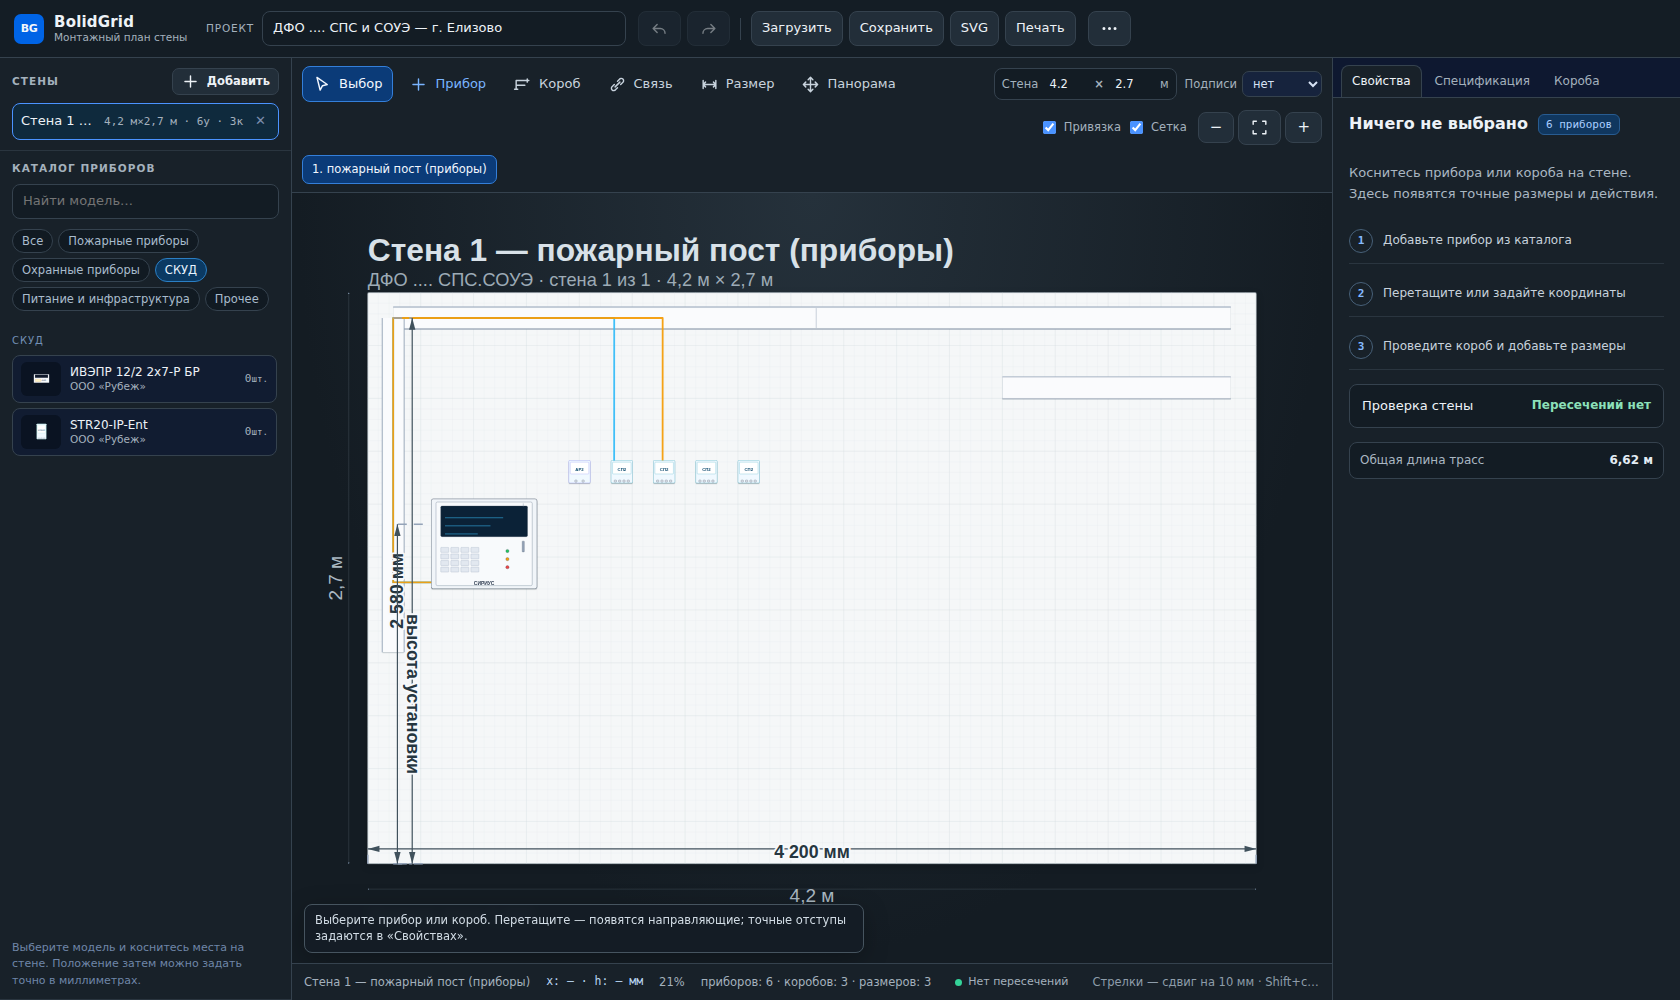
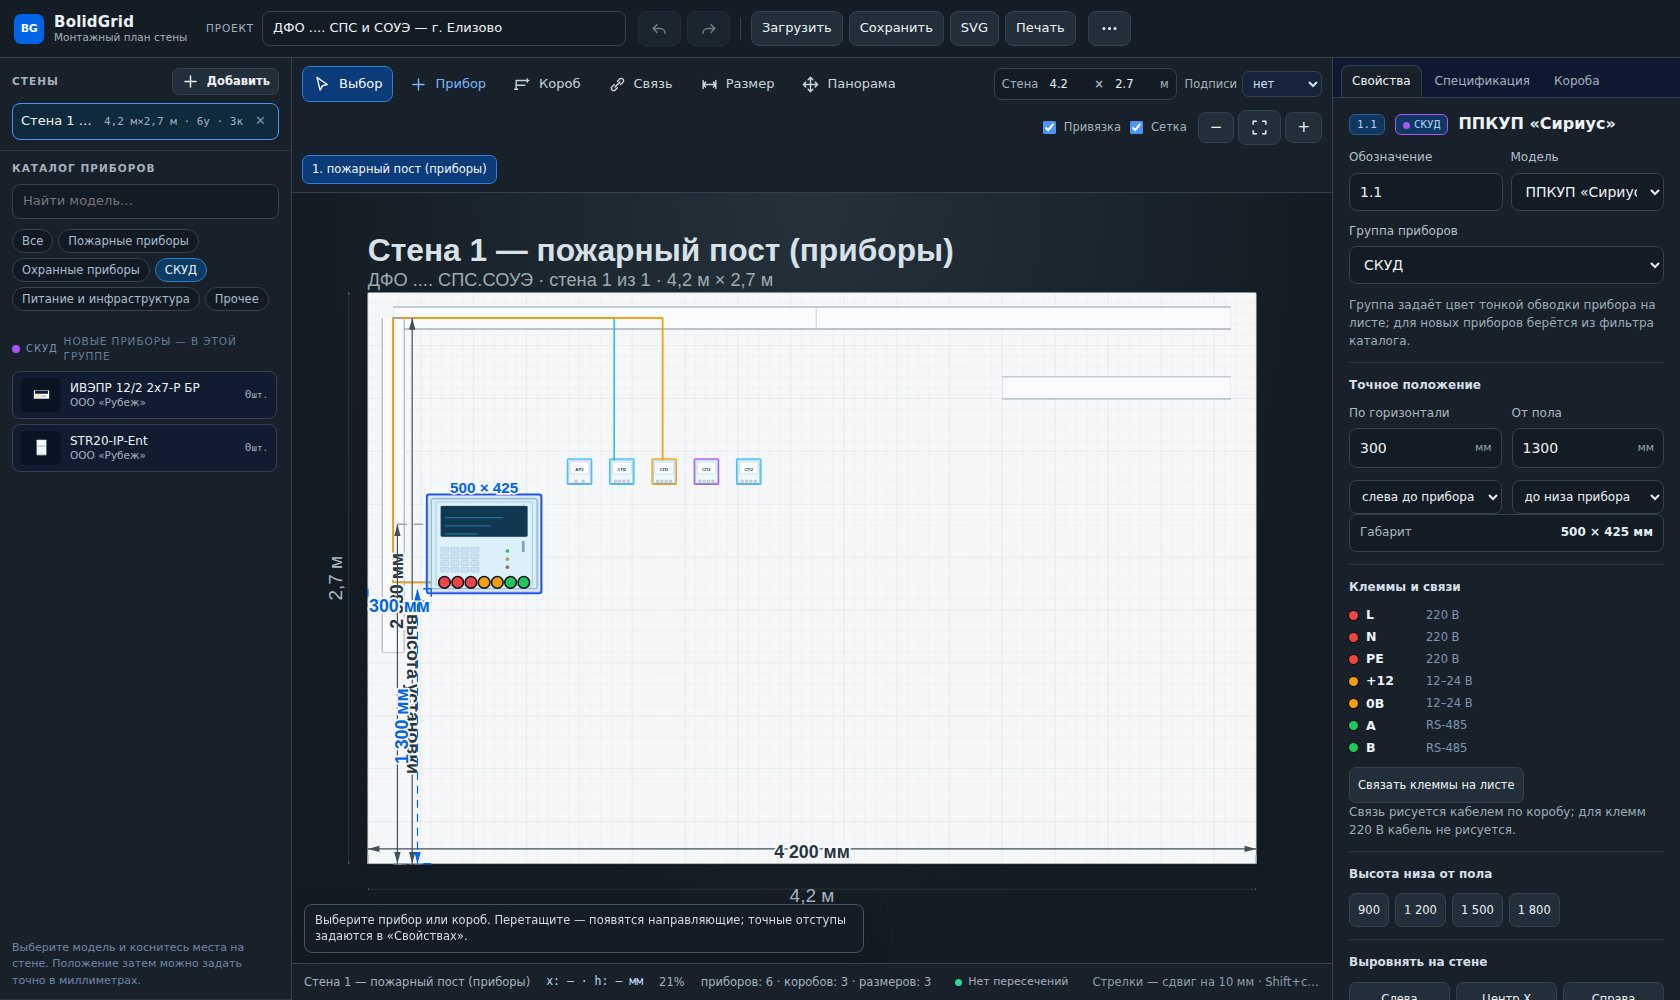
Выбор группы приборов и цветная тонкая обводка (1.7.0)
- у каждого прибора появилась группа: пожарные / охранные / СКУД / питание / прочее;
  выбирается в свойствах прибора и хранится в проекте (devices[].system)
- группа задаёт тонкую обводку вокруг прибора на листе: пожарные — красная, охранные — голубая,
  СКУД — фиолетовая, питание — оранжевая, прочее — серая
- фильтр группы в каталоге задаёт группу новым приборам (store.placeSystem)
- в каталоге заголовки групп с цветными точками; в свойствах — селектор группы и цветной бейдж
- версия 1.7.0 (versionCode 8), APK пересобран; smoke 97/97, QA 167/167, mobile 123/123
- документация (README/USAGE/DATA-MODEL/QA) и скриншоты обновлены

diff --git a/js/panels.js b/js/panels.js
@@ -2,7 +2,7 @@
  * panels.js — панели интерфейса: каталог устройств, стены, точные свойства,
  * спецификация оборудования и ведомость коробов.
  */
-import { MODELS, getModel, KIND_LABELS, KIND_ORDER, CHANNEL_KINDS, CHANNEL_COLORS, modelThumb, terminalsForModel, TERMINAL_KIND_LABELS, TERMINAL_KIND_COLORS, CABLE_MODELS, CABLE_BY_ID, findTerminal, SYSTEM_LABELS, SYSTEM_ORDER } from './catalog.js';
+import { MODELS, getModel, KIND_LABELS, KIND_ORDER, CHANNEL_KINDS, CHANNEL_COLORS, modelThumb, terminalsForModel, TERMINAL_KIND_LABELS, TERMINAL_KIND_COLORS, CABLE_MODELS, CABLE_BY_ID, findTerminal, SYSTEM_LABELS, SYSTEM_ORDER, SYSTEM_COLORS } from './catalog.js';
 import { fmt, fmt0, m, mm, esc, download, toCSV, uid, polylineLength } from './util.js';
 
 const el = (html) => {
@@ -238,6 +238,7 @@ export class Panels {
         .join('');
       groupsEl.querySelectorAll('[data-sys-filter]').forEach((btn) => btn.addEventListener('click', () => {
         this.systemFilter = btn.dataset.sysFilter;
+        this.store.placeSystem = this.systemFilter === 'all' ? null : this.systemFilter;
         this.renderPalette();
       }));
     }
@@ -250,7 +251,7 @@ export class Panels {
     for (const sys of SYSTEM_ORDER) {
       const models = available.filter((m) => m.system === sys);
       if (!models.length) continue;
-      html += `<div class="pal-group-title">${escAll(SYSTEM_LABELS[sys])}</div>`;
+      html += `<div class="pal-group-title"><span class="sys-dot" style="background:${SYSTEM_COLORS[sys] || '#94a3b8'}"></span>${escAll(SYSTEM_LABELS[sys])}<span class="sys-note">${this.store.placeSystem === sys ? 'новые приборы — в этой группе' : ''}</span></div>`;
       for (const model of models) {
         const placed = counts.get(model.id) || 0;
         const qty = model.specPos != null ? specQty.get(model.specPos) : null;
@@ -332,12 +333,14 @@ export class Panels {
     const xValue = this.anchorX === 'right' ? d.x + model.w : this.anchorX === 'center' ? d.x + model.w / 2 : d.x;
     const yValue = this.anchorY === 'top' ? d.y + model.h : this.anchorY === 'center' ? d.y + model.h / 2 : d.y;
     const horizontalChannels = this.store.wallChannels.filter((c) => c.points.some((p, i) => i && p[1] === c.points[i - 1][1]));
-    return `<div class="prop-title"><span class="badge">${escAll(d.tag || '—')}</span><span class="badge">${escAll(SYSTEM_LABELS[model.system] || '')}</span><h4>${escAll(model.name)}</h4></div>
+    return `<div class="prop-title"><span class="badge">${escAll(d.tag || '—')}</span><span class="badge" style="border-color:${SYSTEM_COLORS[d.system || model.system] || '#94a3b8'}"><span class="sys-dot" style="background:${SYSTEM_COLORS[d.system || model.system] || '#94a3b8'}"></span>${escAll(SYSTEM_LABELS[d.system || model.system] || '')}</span><h4>${escAll(model.name)}</h4></div>
       <div class="form">
         <div class="row2">
           <label>Обозначение<input data-f="tag" value="${escAll(d.tag)}" placeholder="1.1"></label>
           <label>Модель<select data-f="modelId">${modelOptions}</select></label>
         </div>
+        <label>Группа приборов<select data-f="system">${SYSTEM_ORDER.map((sys) => `<option value="${sys}" ${((d.system || model.system) === sys) ? 'selected' : ''}>${escAll(SYSTEM_LABELS[sys])}</option>`).join('')}</select></label>
+        <div class="hintline">Группа задаёт цвет тонкой обводки прибора на листе; для новых приборов берётся из фильтра каталога.</div>
         <section class="prop-section">
           <h5>Точное положение</h5>
           <div class="position-grid">

diff --git a/js/wall.js b/js/wall.js
@@ -7,7 +7,7 @@
  * Инструменты: выбор (перетаскивание, рамка), короб (ломаная),
  * панорама, измерение. Опуски к каналам считаются автоматически.
  */
-import { getModel, symbolMarkup, CHANNEL_KINDS, KIND_COLORS, terminalsForModel, TERMINAL_KIND_COLORS, TERMINAL_KIND_LABELS, CABLE_BY_ID } from './catalog.js';
+import { getModel, symbolMarkup, CHANNEL_KINDS, KIND_COLORS, terminalsForModel, TERMINAL_KIND_COLORS, TERMINAL_KIND_LABELS, CABLE_BY_ID, SYSTEM_COLORS } from './catalog.js';
 import { clamp, snapTo, fmt, fmt0, m, mm, esc, pathD, closestOnPolyline, closestOnSegment, orthoPath, uid } from './util.js';
 
 const SVG_NS = 'http://www.w3.org/2000/svg';
@@ -1349,7 +1349,11 @@ export class WallEditor {
       // минимальная зона попадания 60×60 мм — чтобы маленькие модули (МПН и т.п.) можно было выбрать мышью
       const padX = Math.max(16, (60 - model.w) / 2);
       const padY = Math.max(16, (60 - model.h) / 2);
+      const system = d.system || model.system || 'other';
+      const groupColor = SYSTEM_COLORS[system] || '#94a3b8';
+      const groupPad = Math.max(6, Math.min(18, Math.min(model.w, model.h) * 0.06));
       out += `<g class="dev${sel}${issue}" data-type="device" data-id="${d.id}" transform="translate(${d.x} ${yScreen})">
+        <rect class="dev-group-frame" x="${-groupPad}" y="${-groupPad}" width="${model.w + groupPad * 2}" height="${model.h + groupPad * 2}" rx="${Math.max(4, groupPad * 0.6)}" fill="none" stroke="${groupColor}" stroke-width="1.5" vector-effect="non-scaling-stroke"/>
         <g transform="rotate(${rot} ${model.w / 2} ${model.h / 2})">
           <g class="dev-symbol">${symbolMarkup(model)}</g>
           <rect class="dev-hit" x="${-padX}" y="${-padY}" width="${model.w + padX * 2}" height="${model.h + padY * 2}" rx="10"/>

diff --git a/js/store.js b/js/store.js
@@ -4,7 +4,7 @@
  * Проект целиком сериализуется в JSON: undo — это снимки проекта,
  * поэтому любые правки должны идти через begin()/commit() или act().
  */
-import { getModel, MODELS, CHANNEL_KINDS, CHANNEL_KIND_IDS, terminalsForModel, CABLE_BY_ID, defaultCableForTerminals } from './catalog.js';
+import { getModel, MODELS, CHANNEL_KINDS, CHANNEL_KIND_IDS, terminalsForModel, CABLE_BY_ID, defaultCableForTerminals, SYSTEM_ORDER } from './catalog.js';
 import { uid, closestOnPolyline, polylineLength, clamp } from './util.js';
 
 const MODELS_BY_ID = new Map(MODELS.map((m) => [m.id, m]));
@@ -41,6 +41,7 @@ export class Store {
     this.selection = [];
     this.tool = 'select';
     this.armedModelId = null;
+    this.placeSystem = null;
     this.settings = { grid: 50, snap: true, showGrid: true, labels: 'none', channelColor: '#94a3b8', selectionDims: true, smartSnap: true };
     this._undo = [];
     this._redo = [];
@@ -306,6 +307,7 @@ export class Store {
         tag: this.nextTag(wall.id),
         address: '',
         note: '',
+        system: patch.system || this.placeSystem || model.system || 'other',
         ...patch,
       };
       this.project.devices.push(dev);
@@ -781,6 +783,7 @@ export function sanitizeProject(raw) {
         x: clamp(Math.round(+d.x || 0), 0, Math.max(0, wall.width - model.w)),
         y: clamp(Math.round(+d.y || 0), 0, Math.max(0, wall.height - model.h)),
         rot: [0, 90, 180, 270].includes(+d.rot) ? +d.rot : 0,
+        system: SYSTEM_ORDER.includes(String(d.system)) ? String(d.system) : (model.system || 'other'),
         tag: String(d.tag ?? ''),
         address: String(d.address ?? ''),
         note: String(d.note ?? ''),

diff --git a/css/app.css b/css/app.css
@@ -736,3 +736,10 @@ body.tool-cable #stage{cursor:crosshair}
 .pal-filter{border:1px solid var(--line);background:#111a22;color:#a9bccd;border-radius:999px;padding:3px 9px;font-size:11.5px;cursor:pointer;line-height:1.4}
 .pal-filter:hover{border-color:#5c7288;color:#e6eef8}
 .pal-filter.active{background:#0b3a63;border-color:#2b7fc4;color:#e8f4ff}
+
+/* группы приборов: цвет тонкой обводки и каталог */
+.dev-group-frame{pointer-events:none;opacity:.9}
+.sys-dot{display:inline-block;width:8px;height:8px;border-radius:50%;margin-right:6px;vertical-align:middle;flex:0 0 auto}
+.pal-group-title{display:flex;align-items:center}
+.sys-note{color:#5f7c98;font-size:10.5px;font-weight:400;margin-left:6px}
+.badge .sys-dot{width:7px;height:7px;margin-right:4px}

diff --git a/js/catalog.js b/js/catalog.js
@@ -50,6 +50,14 @@ export const SYSTEM_LABELS = {
 
 export const SYSTEM_ORDER = ['fire', 'security', 'skud', 'power', 'other'];
 
+export const SYSTEM_COLORS = {
+  fire: '#ef4444',
+  security: '#38bdf8',
+  skud: '#a855f7',
+  power: '#f59e0b',
+  other: '#94a3b8',
+};
+
 export const KIND_ORDER = [
   'ppkup', 'detektor_dym', 'detektor_ruchn', 'opoveshchatel_svet', 'opoveshchatel_zvuk',
   'blok_sp', 'blok_kpb', 'rasshiritel', 'modul', 'bp', 'korobka', 'other',

diff --git a/docs/USAGE.md b/docs/USAGE.md
@@ -90,6 +90,15 @@ BolidGrid показывает стену в фронтальной проекц
 
 Для двух и более выделенных приборов в блоке **«Точный зазор»** укажите расстояние в миллиметрах и направление — **по X** или **по Y**. Первый прибор остаётся на месте, остальные выстраиваются по порядку с заданным свободным расстоянием между габаритами. Если группа не помещается на стене, положение не меняется. Вся операция отменяется одним `Ctrl`+`Z`.
 
+### Группа прибора и цвет обводки
+
+- В свойствах прибора есть **«Группа приборов»**: пожарные, охранные, СКУД, питание и инфраструктура,
+  прочее. Каждый прибор на листе обведён **тонкой линией цвета своей группы**:
+  пожарные — красный, охранные — голубой, СКУД — фиолетовый, питание — оранжевый, прочее — серый.
+- Выбранный фильтр группы в каталоге задаёт группу **новым** приборам (например, поставили фильтр
+  «СКУД» — новые приборы получат фиолетовую обводку).
+- Группа хранится в проекте и сохраняется/загружается вместе с ним.
+
 ## 4. Короба и трассы
 
 ### Рисование

diff --git a/README.md b/README.md
@@ -39,6 +39,9 @@
   «STR20-IP-Ent», коммутатор, розетка и произвольное устройство.
 - **Точное положение.** X от левого края и высота от пола; точки отсчёта по краю или центру прибора.
 - **Удобная геометрия.** Сетка, умные привязки, выравнивание, равномерное распределение и точный свободный зазор.
+- **Группа прибора и цветная обводка.** Группу (пожарные / охранные / СКУД / питание / прочее)
+  можно выбрать у каждого прибора в свойствах; она задаёт тонкую цветную обводку вокруг прибора
+  на листе. Фильтр группы в каталоге задаёт группу для новых приборов.
 - **Клеммы и кабели.** У приборов есть клеммы (220 В, 12–24 В, RS-485, сигнал), связи по клеммам
   рисуются кабелем по сети пластиковых коробов — в том числе с переходом из горизонтального
   короба в вертикальный и через пересечения; для клемм 220 В кабель не рисуется. Кабельная

diff --git a/docs/DATA-MODEL.md b/docs/DATA-MODEL.md
@@ -86,6 +86,7 @@
 |---|---|
 | `devices[].modelId` | Идентификатор модели из каталога |
 | `devices[].rot` | Поворот: 0, 90, 180 или 270° |
+| `devices[].system` | Группа: `fire`, `security`, `skud`, `power`, `other` (цвет тонкой обводки) |
 | `devices[].tag` | Рабочее обозначение на листе |
 | `devices[].address` | Необязательный адрес или дополнительная подпись |
 | `channels[].kind` | Тип трассы |

diff --git a/docs/QA-REPORT.md b/docs/QA-REPORT.md
@@ -10,10 +10,10 @@
 
 | Прогон | Результат |
 |---|---|
-| `npm test` | **94/94 PASS** |
+| `npm test` | **97/97 PASS** |
 | `npm run test:qa` | **167/167 PASS** |
 | `npm run test:mobile` | **123/123 PASS** |
-| Всего | **384/384 PASS** |
+| Всего | **387/387 PASS** |
 
 Во всех прогонах не зафиксированы `pageerror` и `console.error`.
 
